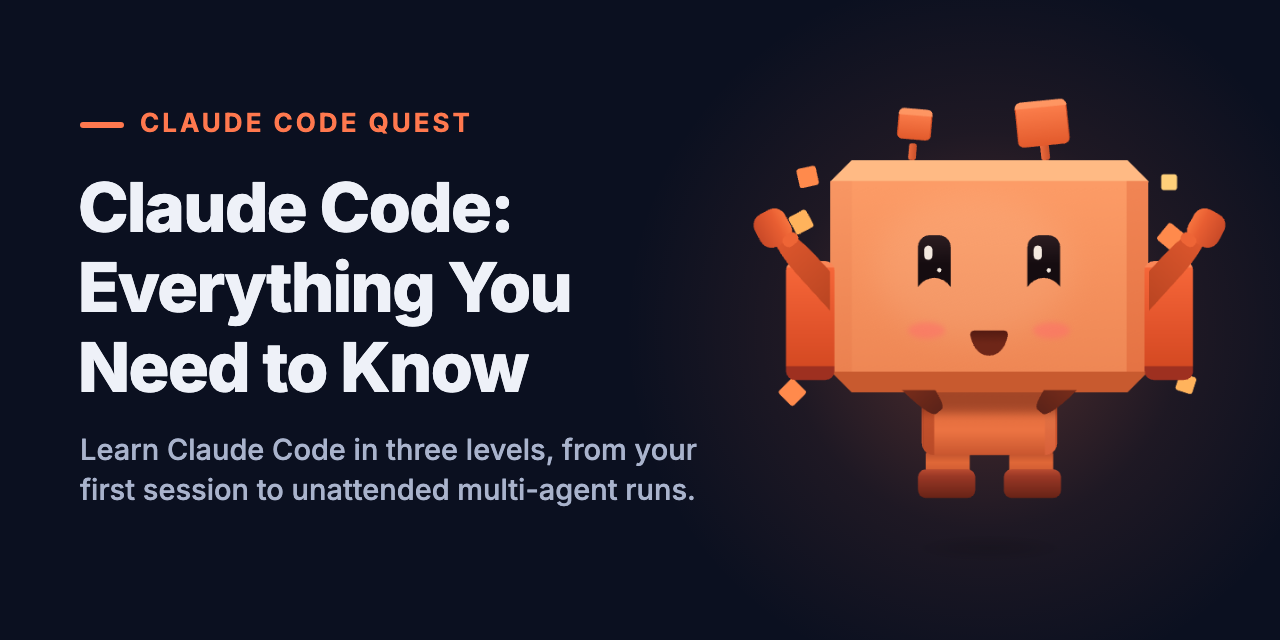
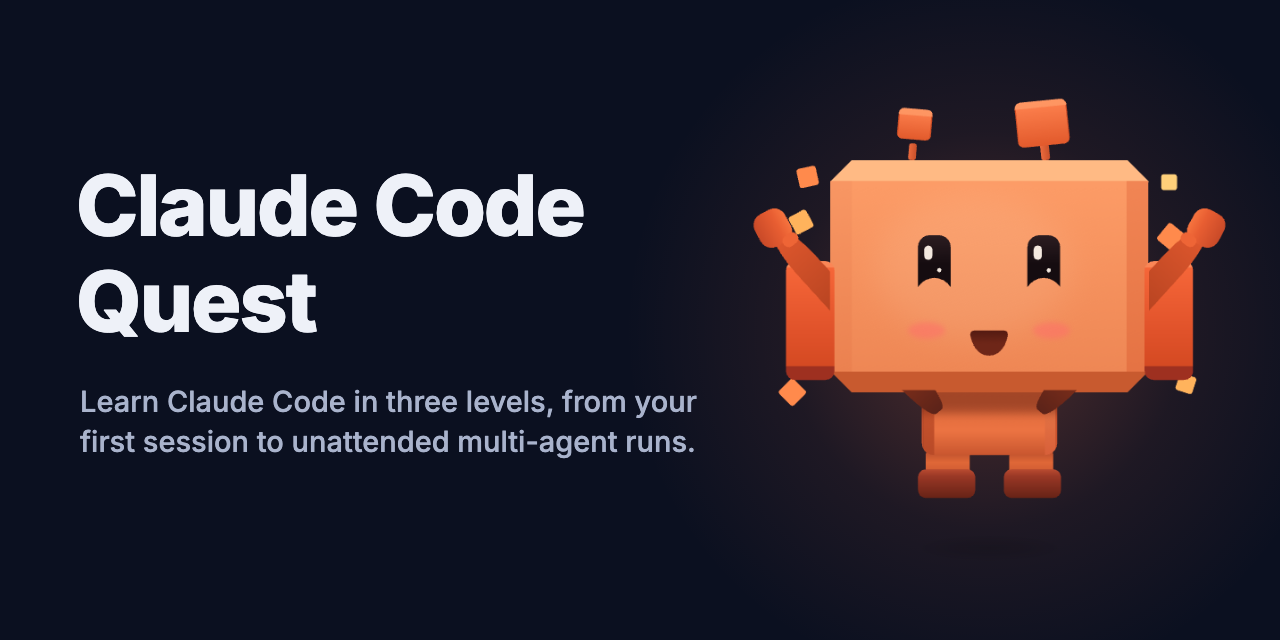
Title the guide Claude Code Quest everywhere (339) (#221)

diff --git a/docs/reference/glossary.md b/docs/reference/glossary.md
@@ -11,7 +11,7 @@ The words this guide uses for its own parts. For Claude Code's terms, such as ho
 - **Check:** the last required part of a lesson: observable state, such as files, git history, exit codes or settings, that shows your exercise worked. It never depends on how Claude words a reply.
 - **Exit:** the list of things you can do unaided at the end of a level. Each level's Exit is the next level's "You're ready for this level if you can" list.
 - **Practice copy:** your own repository made from the [practice template](../beginner/README.md#practice), where you run Claude Code, each lesson's check and Claude Code Quest.
-- **Claude Code Quest:** the web learning app you start with `npm run learn` in your practice copy. It opens in your browser (in a Codespace, it prints the address to open), shows one step at a time while you work in your own terminal, and reports each check as it passes.
+- **Claude Code Quest:** the web learning app you start with `npm run learn` in your practice copy. It opens in your browser (in a Codespace, it prints the address to open), shows one step at a time while you work in your own terminal, and reports each check as it passes. It is also this guide's title.
 - **Step:** one unit of a lesson that Claude Code Quest shows at a time. It ends when the app sees your work or your answer.
 
 ---

diff --git a/docs/intermediate/README.md b/docs/intermediate/README.md
@@ -97,4 +97,4 @@ Optional lessons beside the core path:
 
 <sub>Sources: [Extend Claude Code](https://code.claude.com/docs/en/features-overview) · [How Claude remembers your project](https://code.claude.com/docs/en/memory) · [Extend Claude with skills](https://code.claude.com/docs/en/skills) · [Hooks](https://code.claude.com/docs/en/hooks) · [Create custom subagents](https://code.claude.com/docs/en/sub-agents) · [Workflows](https://code.claude.com/docs/en/workflows) · [Connect Claude Code to tools via MCP](https://code.claude.com/docs/en/mcp) · [Plugins](https://code.claude.com/docs/en/plugins) · [Code intelligence plugins](https://code.claude.com/docs/en/plugins/code-intelligence) · [Configure the sandboxed Bash tool](https://code.claude.com/docs/en/sandboxing) · [gitignore](https://git-scm.com/docs/gitignore) · [git rev-parse](https://git-scm.com/docs/git-rev-parse) · [Claude Code in action](https://academy.claude.com/courses/claude-code-in-action) · [Introduction to agent skills](https://academy.claude.com/courses/introduction-to-agent-skills) · [Introduction to subagents](https://academy.claude.com/courses/introduction-to-subagents)</sub>
 
-<sub>Up: [Claude Code: Everything You Need to Know](../../README.md#pick-your-level)</sub>
+<sub>Up: [Claude Code Quest](../../README.md#pick-your-level)</sub>

diff --git a/practice-template/README.source.md b/practice-template/README.source.md
@@ -2,7 +2,7 @@
 
 # Claude Code practice
 
-Your practice copy for [Claude Code: Everything You Need to Know](https://github.com/wesammustafa/Claude-Code-Everything-You-Need-to-Know). The lessons live in the guide. This copy holds Claude Code Quest, the app that takes you through every core lesson and capstone one step at a time, the small project you practise on, and a check for every core lesson and capstone.
+Your practice copy for [Claude Code Quest](https://github.com/wesammustafa/Claude-Code-Everything-You-Need-to-Know). The lessons live in the guide. This copy holds the web learning app that takes you through every core lesson and capstone one step at a time, the small project you practise on, and a check for every core lesson and capstone.
 
 An independent educational project. Not affiliated with or endorsed by Anthropic.
 

diff --git a/docs/beginner/README.md b/docs/beginner/README.md
@@ -70,4 +70,4 @@ Optional lessons beside the core path, each ending with a checklist you confirm 
 
 <sub>Sources: [Quickstart](https://code.claude.com/docs/en/quickstart) · [Advanced setup](https://code.claude.com/docs/en/setup) · [Terminal guide for new users](https://code.claude.com/docs/en/terminal-guide) · [Troubleshoot installation](https://code.claude.com/docs/en/troubleshoot-install) · [Commands](https://code.claude.com/docs/en/commands) · [Output styles](https://code.claude.com/docs/en/output-styles) · [Create custom subagents](https://code.claude.com/docs/en/sub-agents)</sub>
 
-<sub>Up: [Claude Code: Everything You Need to Know](../../README.md#pick-your-level)</sub>
+<sub>Up: [Claude Code Quest](../../README.md#pick-your-level)</sub>

diff --git a/README.md b/README.md
@@ -4,9 +4,8 @@
 <!-- Rendered on 2026-11-05 from Pip's rig (quest/client/pip/pip.riv) in Claude Code Quest's web runtime: his Greeting, then a look down at the button below. -->
 <img src="assets/readme/pip-hello.gif" width="640" alt="Pip, Claude Code Quest's mascot, a small blocky orange robot with two antennas, waves hello under floating pixel crosses, then looks down at the Try it now button below him." />
 
-<sub><b>CLAUDE CODE QUEST</b></sub>
-
-# Claude Code: Everything You Need to Know
+<a id="claude-code-everything-you-need-to-know"></a>
+# Claude Code Quest
 
 **Learn Claude Code by doing it, one small step at a time, with Pip cheering you on.**
 

diff --git a/docs/advanced/README.md b/docs/advanced/README.md
@@ -68,4 +68,4 @@ Optional lessons beside the core path:
 
 <sub>Sources: [Run agents in parallel](https://code.claude.com/docs/en/agents) · [The AI-native SDLC playbook](https://academy.claude.com/courses/ai-native-sdlc-playbook)</sub>
 
-<sub>Up: [Claude Code: Everything You Need to Know](../../README.md#pick-your-level)</sub>
+<sub>Up: [Claude Code Quest](../../README.md#pick-your-level)</sub>

diff --git a/docs/reference/README.md b/docs/reference/README.md
@@ -16,4 +16,4 @@ For Claude Code's own terms, see the official [Glossary](https://code.claude.com
 
 <sub>Sources: [Glossary](https://code.claude.com/docs/en/glossary)</sub>
 
-<sub>Up: [Claude Code: Everything You Need to Know](../../README.md)</sub>
+<sub>Up: [Claude Code Quest](../../README.md)</sub>

diff --git a/docs/topics/README.md b/docs/topics/README.md
@@ -16,4 +16,4 @@ Each topic page lists its lessons in level order, its Electives, its reference p
 
 ---
 
-<sub>Up: [Claude Code: Everything You Need to Know](../../README.md)</sub>
+<sub>Up: [Claude Code Quest](../../README.md)</sub>
